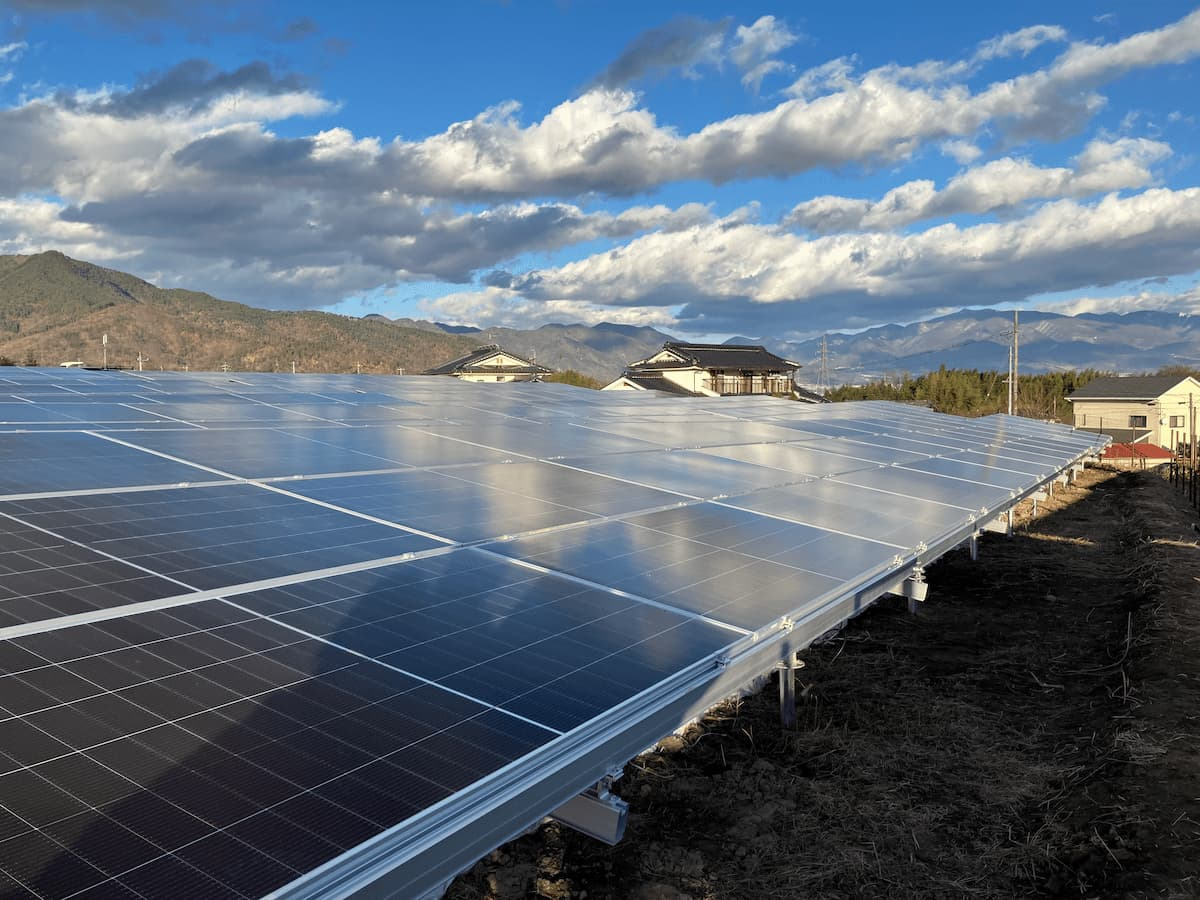
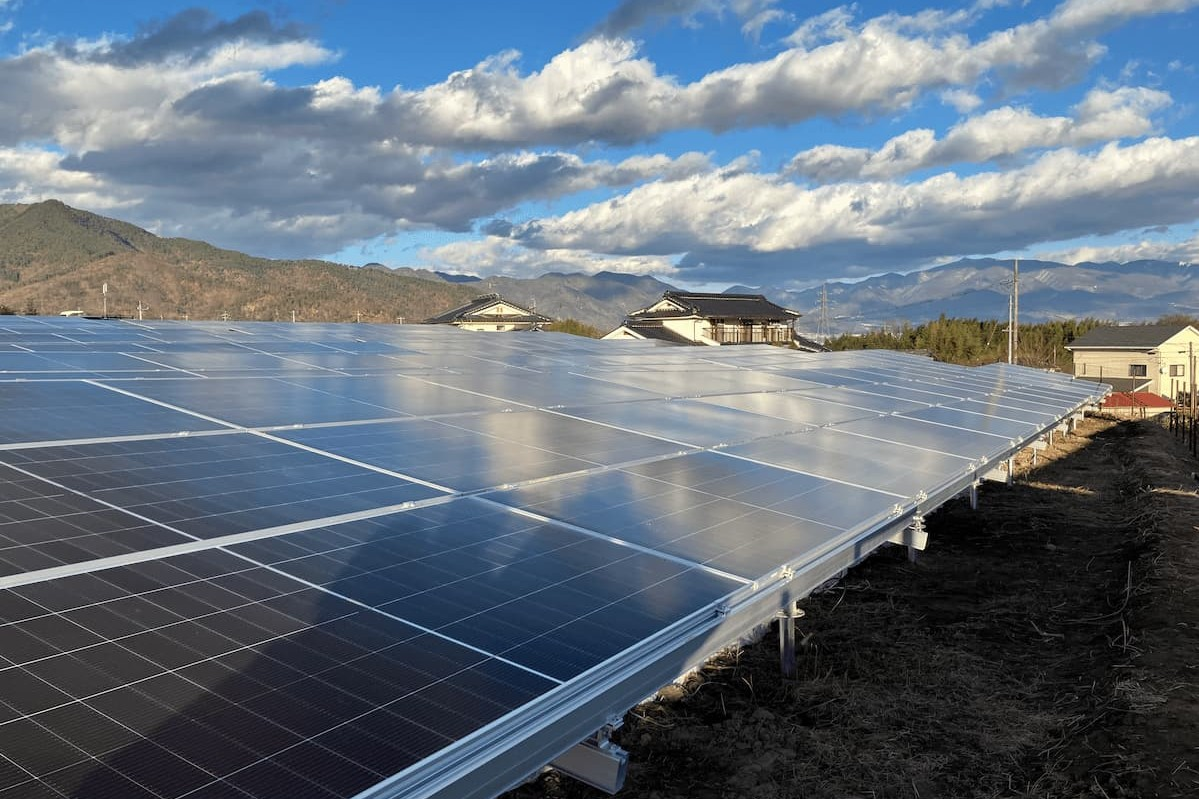
画像の削除と画像の加工

diff --git a/c/nomuraya/job_ningen/index.php b/c/nomuraya/job_ningen/index.php
@@ -175,11 +175,6 @@ $og_image = 'https://works.mekulo.jp/ogp-image.png';
 		そして準備が整ったら、企業や投資家（ファンド）に向けて、
 		「この土地でこんな発電所がつくれますよ」という提案営業を行い、買い手を探していきます。
 	</p>
-	<div class="images">
-		<img src="work2.jpg" alt="" class="scene">
-		<img src="<?= $company_base ?>second.jpg" alt="" class="scene">
-		<img src="work4.jpg" alt="" class="scene">
-	</div>
 </section>
 <section class="g">
 	<h2>写真で雰囲気を知る</h2>
